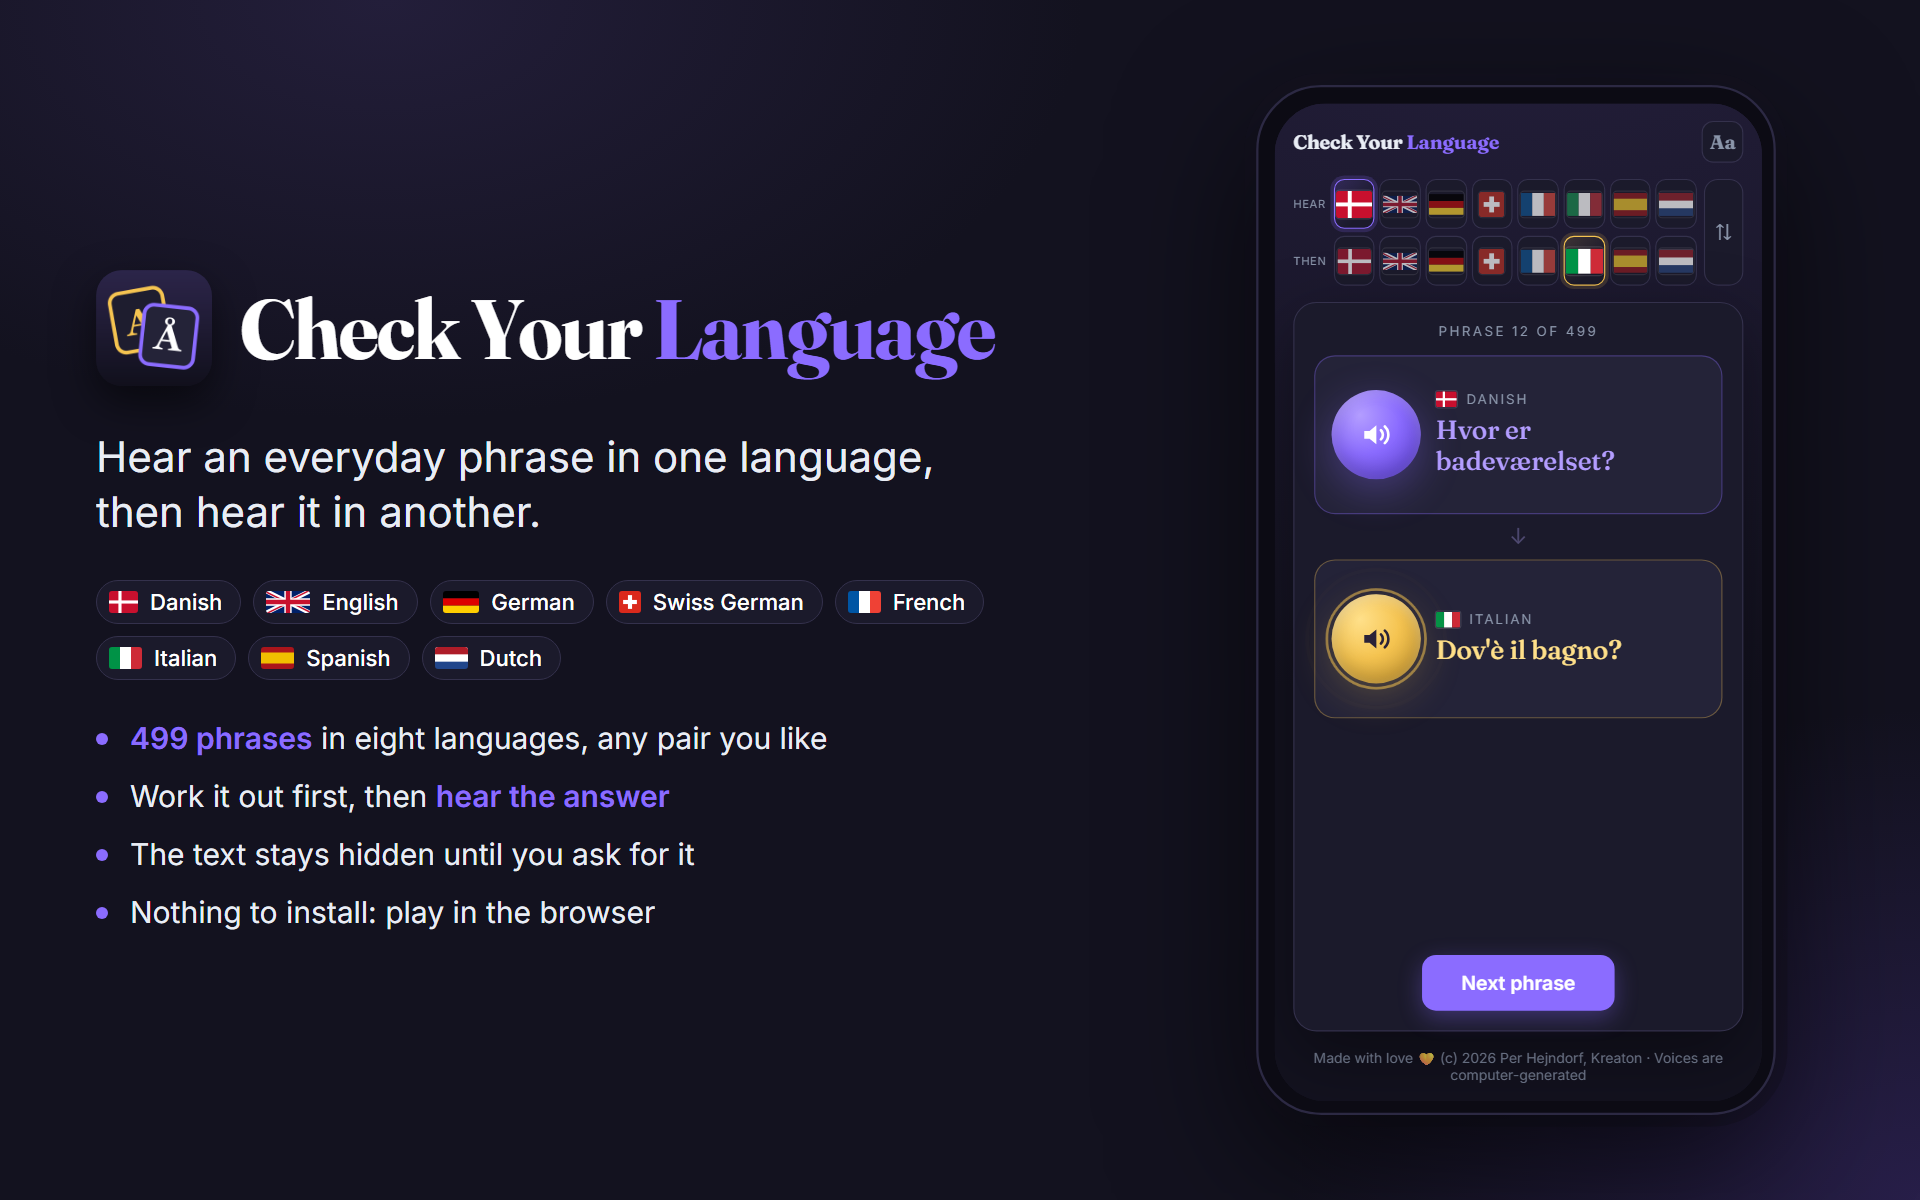
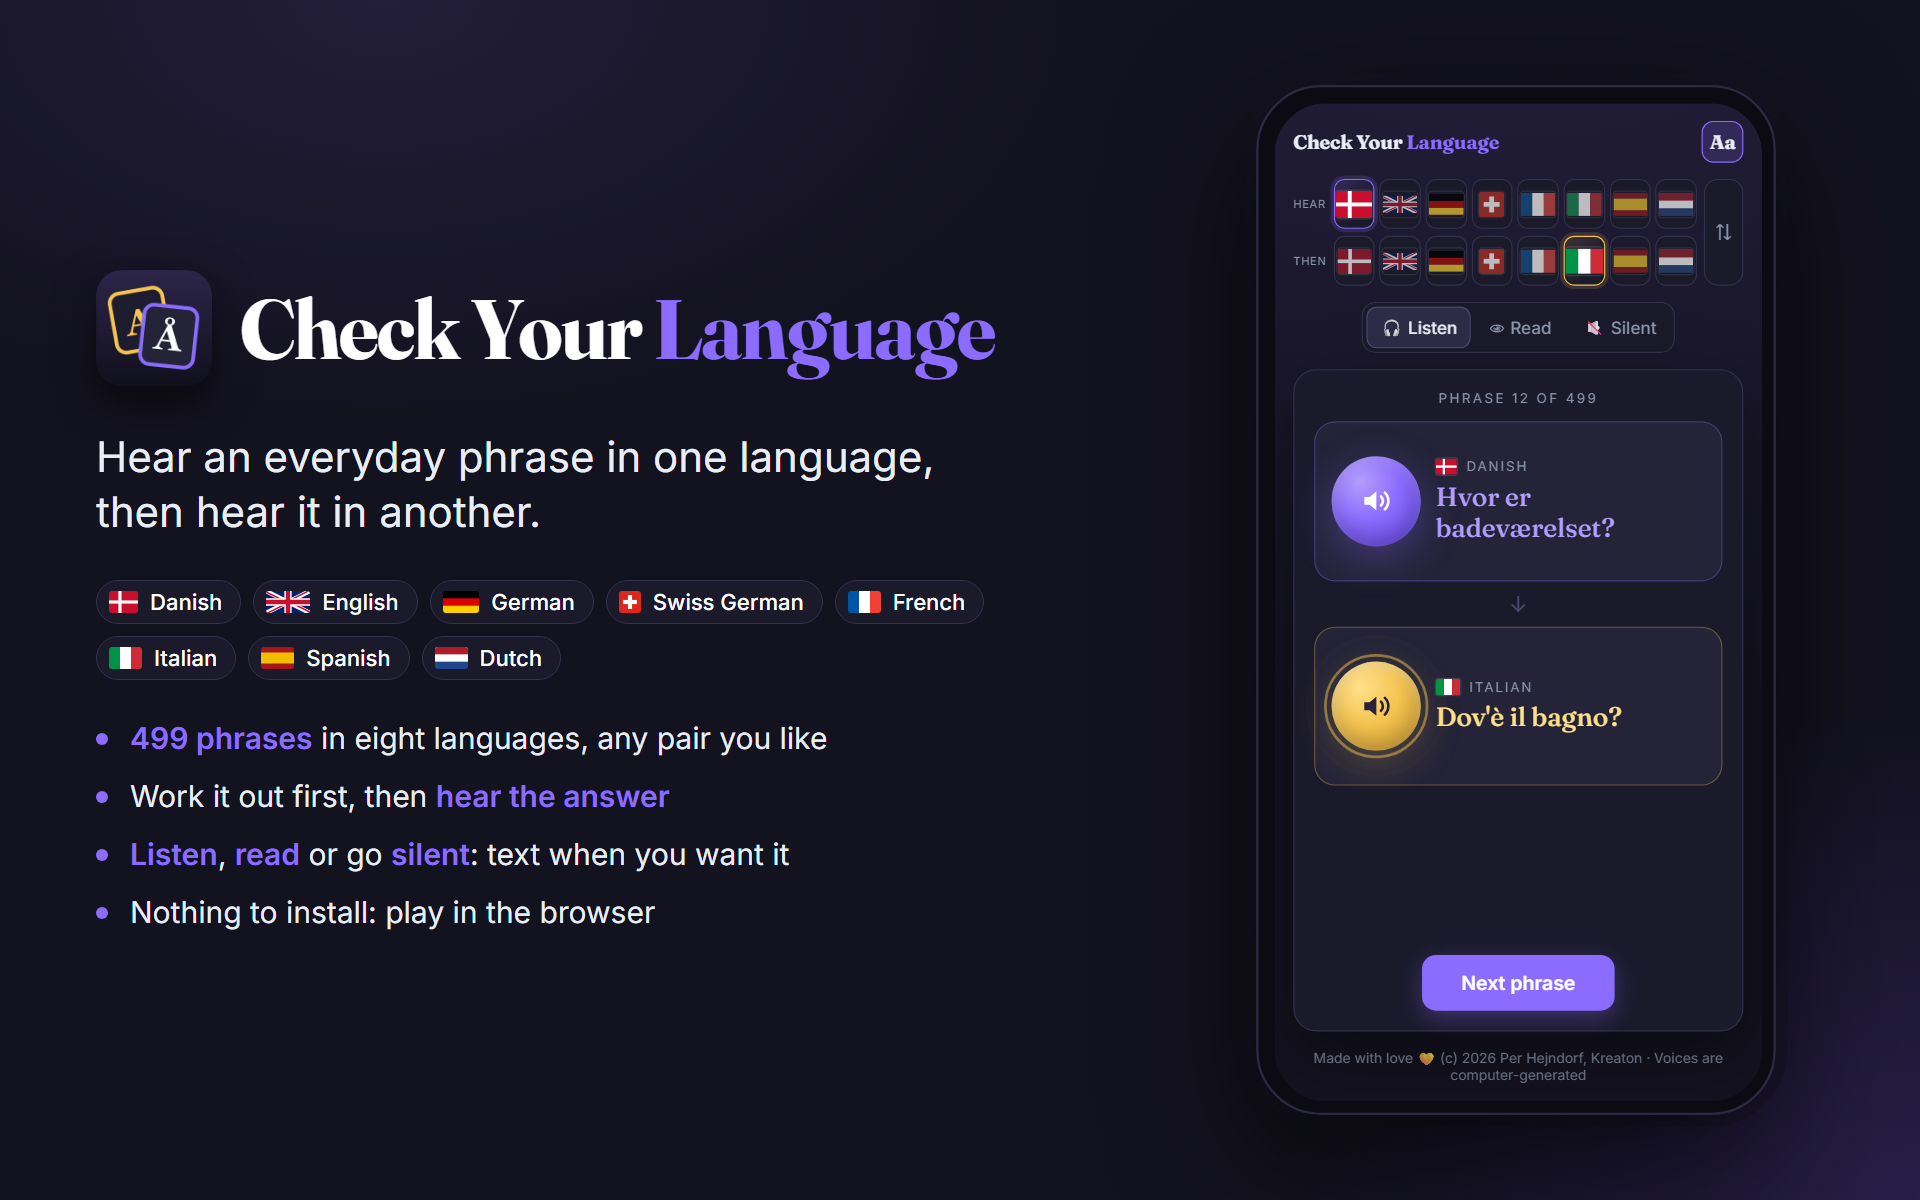
Add Listen, Read and Silent modes
Listen plays each side as it comes up, with the text on request (or always, with Aa).
Read shows the text first and plays a side only when its speaker is tapped. Silent is
text only, without speakers. Read and Silent always show the text, so Aa is then on
and locked. The mode is kept in the browser with the languages.

Changed region(s): [[0.6875, 0.2467, 0.875, 0.6475], [0.0625, 0.6783, 0.4062, 0.74], [0.875, 0.0925, 0.9062, 0.1542]]

diff --git a/tools/banner-phone.html b/tools/banner-phone.html
@@ -17,13 +17,14 @@
 </head>
 <body>
 <main class="game"><header class="topbar"><h1>Check Your <span>Language</span></h1>
-        <div class="toolbar"><button class="icon-btn text-btn">Aa</button></div></header>
+        <div class="toolbar"><button class="icon-btn text-btn on">Aa</button></div></header>
 
     <div class="pickers" style="--count:8"><span class="row-label">Hear</span>
         <nav class="langs"><button class="lang-chip on"><img class="flag" src="../CheckYourLanguage/wwwroot/flags/dk.svg" alt="" /></button><button class="lang-chip"><img class="flag" src="../CheckYourLanguage/wwwroot/flags/gb.svg" alt="" /></button><button class="lang-chip"><img class="flag" src="../CheckYourLanguage/wwwroot/flags/de.svg" alt="" /></button><button class="lang-chip"><img class="flag" src="../CheckYourLanguage/wwwroot/flags/ch.svg" alt="" /></button><button class="lang-chip"><img class="flag" src="../CheckYourLanguage/wwwroot/flags/fr.svg" alt="" /></button><button class="lang-chip"><img class="flag" src="../CheckYourLanguage/wwwroot/flags/it.svg" alt="" /></button><button class="lang-chip"><img class="flag" src="../CheckYourLanguage/wwwroot/flags/es.svg" alt="" /></button><button class="lang-chip"><img class="flag" src="../CheckYourLanguage/wwwroot/flags/nl.svg" alt="" /></button></nav>
         <button class="swap-btn">⇅</button>
         <span class="row-label">Then</span>
         <nav class="langs"><button class="lang-chip to"><img class="flag" src="../CheckYourLanguage/wwwroot/flags/dk.svg" alt="" /></button><button class="lang-chip to"><img class="flag" src="../CheckYourLanguage/wwwroot/flags/gb.svg" alt="" /></button><button class="lang-chip to"><img class="flag" src="../CheckYourLanguage/wwwroot/flags/de.svg" alt="" /></button><button class="lang-chip to"><img class="flag" src="../CheckYourLanguage/wwwroot/flags/ch.svg" alt="" /></button><button class="lang-chip to"><img class="flag" src="../CheckYourLanguage/wwwroot/flags/fr.svg" alt="" /></button><button class="lang-chip to on"><img class="flag" src="../CheckYourLanguage/wwwroot/flags/it.svg" alt="" /></button><button class="lang-chip to"><img class="flag" src="../CheckYourLanguage/wwwroot/flags/es.svg" alt="" /></button><button class="lang-chip to"><img class="flag" src="../CheckYourLanguage/wwwroot/flags/nl.svg" alt="" /></button></nav></div>
+    <div class="mode-row"><div class="segmented"><button class="on"><span aria-hidden="true">🎧</span> Listen</button><button><span aria-hidden="true">👁</span> Read</button><button><span aria-hidden="true">🔇</span> Silent</button></div></div>
 
     <div class="play"><span class="eyebrow counter">Phrase 12 of 499</span>
         <section class="phrase from"><button class="orb"><svg viewBox="0 0 24 24" aria-hidden="true"><path d="M3.5 9.2v5.6h3.8l4.9 4V5.2l-4.9 4H3.5z" fill="currentColor"></path><path d="M15.5 8.7a4.6 4.6 0 0 1 0 6.6M18.3 6a8.4 8.4 0 0 1 0 12" fill="none" stroke="currentColor" stroke-width="1.9" stroke-linecap="round"></path></svg></button>

diff --git a/CheckYourLanguage/wwwroot/css/app.css b/CheckYourLanguage/wwwroot/css/app.css
@@ -109,6 +109,43 @@ kbd {
 
 .text-btn { font-family: var(--display); font-weight: 700; color: var(--muted); }
 .text-btn.on { color: var(--text); border-color: var(--accent); background: var(--accent-soft); }
+/* Read and Silent always show the text: Aa stays on, dimmed, as a reminder. */
+.text-btn:disabled { opacity: 0.5; }
+.text-btn:disabled:hover { background: var(--accent-soft); border-color: var(--accent); }
+
+/* The mode switch: in the top bar on wide screens, on its own row below the languages on narrow ones. */
+.mode-top { display: none; margin-left: auto; }
+.mode-row { display: flex; justify-content: center; }
+
+@media (min-width: 640px) {
+    .mode-top { display: block; }
+    .mode-row { display: none; }
+}
+
+.segmented {
+    display: inline-flex;
+    padding: 3px;
+    gap: 3px;
+    border-radius: 12px;
+    background: var(--panel);
+    border: 1px solid var(--line);
+}
+
+.segmented button {
+    height: clamp(32px, 4.4dvh, 36px);
+    padding: 0 12px;
+    border: none;
+    border-radius: 9px;
+    background: transparent;
+    color: var(--muted);
+    font-weight: 500;
+    font-size: 0.92rem;
+    white-space: nowrap;
+    transition: background 0.15s, color 0.15s;
+}
+
+.segmented button:hover:not(.on) { color: var(--text); background: var(--panel-2); }
+.segmented button.on { background: var(--panel-3); color: var(--text); box-shadow: inset 0 0 0 1px var(--line-strong); }
 
 /* ---- Language chips: the first language (violet), the second (gold), and a swap button beside both ---- */
 

diff --git a/tools/banner.html b/tools/banner.html
@@ -92,7 +92,7 @@
     <ul class="features">
         <li><em>499 phrases</em> in eight languages, any pair you like</li>
         <li>Work it out first, then <em>hear the answer</em></li>
-        <li>The text stays hidden until you ask for it</li>
+        <li><em>Listen</em>, <em>read</em> or go <em>silent</em>: text when you want it</li>
         <li>Nothing to install: play in the browser</li>
     </ul>
 </section>

diff --git a/CheckYourLanguage/Game/PhraseGame.cs b/CheckYourLanguage/Game/PhraseGame.cs
@@ -1,5 +1,19 @@
 namespace CheckYourLanguage.Game;
 
+/// <summary>How the phrases come across.</summary>
+public enum Mode
+{
+    /// <summary>Each side is spoken as it comes up; its text is shown when asked for (or always, with
+    /// <see cref="PhraseGame.AlwaysText"/>).</summary>
+    Listen,
+
+    /// <summary>Each side is shown as text; tapping its speaker plays it.</summary>
+    Read,
+
+    /// <summary>Text only, no sound at all.</summary>
+    Silent,
+}
+
 public enum Stage
 {
     /// <summary>The phrase has been heard in the first language; the second is still to come.</summary>
@@ -35,8 +49,27 @@ public sealed class PhraseGame(PhraseBook book)
     public bool FromTextShown { get; private set; }
     public bool ToTextShown { get; private set; }
 
-    /// <summary>Shows the text on both sides straight away, from the next phrase on.</summary>
+    /// <summary>Listen: shows the text on both sides straight away, from the next phrase on.</summary>
     public bool AlwaysText { get; set; }
+
+    public Mode Mode { get; private set; } = Mode.Listen;
+
+    /// <summary>Whether the text is shown as soon as a side comes up: always, except in Listen without
+    /// <see cref="AlwaysText"/>.</summary>
+    public bool TextFirst => AlwaysText || Mode != Mode.Listen;
+
+    /// <summary>Whether a side is spoken as soon as it comes up.</summary>
+    public bool AutoPlay => Mode == Mode.Listen;
+
+    /// <summary>Whether there is any sound (the speakers are shown).</summary>
+    public bool HasSound => Mode != Mode.Silent;
+
+    /// <summary>Changes the mode. Any text the new mode always shows is shown at once.</summary>
+    public void SetMode(Mode mode)
+    {
+        Mode = mode;
+        if (TextFirst) ShowText();
+    }
 
     /// <summary>How many phrases have come up in this pass through the list.</summary>
     public int Seen => Book.Count - _bag.Count;
@@ -75,8 +108,8 @@ public sealed class PhraseGame(PhraseBook book)
 
     private void ResetText()
     {
-        FromTextShown = AlwaysText;
-        ToTextShown = AlwaysText;
+        FromTextShown = TextFirst;
+        ToTextShown = TextFirst;
     }
 
     public void NextPhrase()

diff --git a/README.md b/README.md
@@ -24,26 +24,32 @@ are `ch`.
 
 ## How it works
 
-1. Pick the language to hear first (**Hear**, violet) and the one to hear it in next (**Then**, gold).
-   Picking a language that is already in the other row swaps the two, and ⇅ swaps them as well.
-2. **Start**: a random phrase is spoken in the first language. Work out what it means, or how you
+1. Pick the language to see or hear first (**Hear**, violet) and the one to get it in next (**Then**,
+   gold). Picking a language that is already in the other row swaps the two, and ⇅ swaps them as well.
+2. **Start**: a random phrase comes up in the first language. Work out what it means, or how you
    would say it in the second.
-3. **Hear it in …**: the same phrase is spoken in the second language.
-4. **Next phrase**, or **Skip** before hearing the second language.
+3. **Hear it in …** / **Show it in …**: the same phrase in the second language.
+4. **Next phrase**, or **Skip** before getting the second language.
 
-The text of each side stays hidden until **Show text** is clicked. **Aa** in the top bar shows the
-text straight away instead.
+Phrases come in random order, and every one comes once before any repeats. The two languages, the
+mode and the **Aa** setting are kept in the browser.
 
-- Tapping a speaker plays that side again.
-- Phrases come in random order, and every one comes once before any repeats.
-- The two languages and the **Aa** setting are kept in the browser.
+### Modes
+
+| Mode | Sound | Text |
+|---|---|---|
+| **🎧 Listen** | Each side is spoken as it comes up; tap a speaker to hear it again | Hidden until **Show text**, or always shown with **Aa** |
+| **👁 Read** | Only when you tap a speaker | Always shown |
+| **🔇 Silent** | None, and no speakers | Always shown |
+
+Read and Silent always show the text, so **Aa** is then on and cannot be switched off.
 
 ### Keyboard
 
 | Key | Does |
 |---|---|
-| `Enter` | Start, hear it in the second language, next phrase |
-| `Space` | Play the last one again |
+| `Enter` | Start, hear or show it in the second language, next phrase |
+| `Space` | Play the last one again (in Read, the last one shown) |
 | `T` | Show the text |
 | `1` / `2` | Play the first / second language |
 
